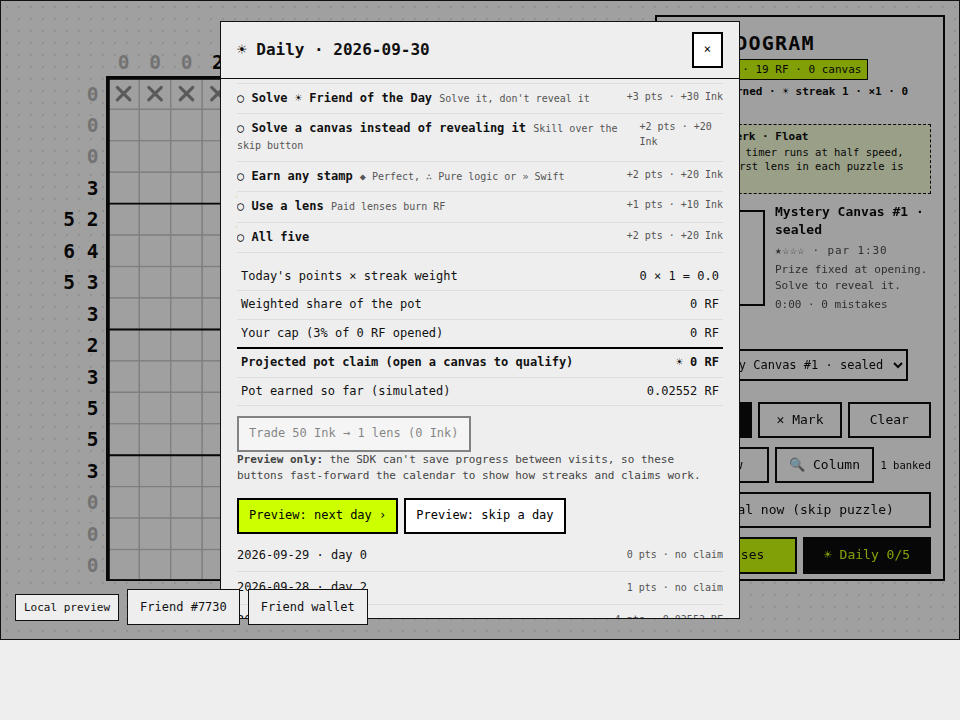
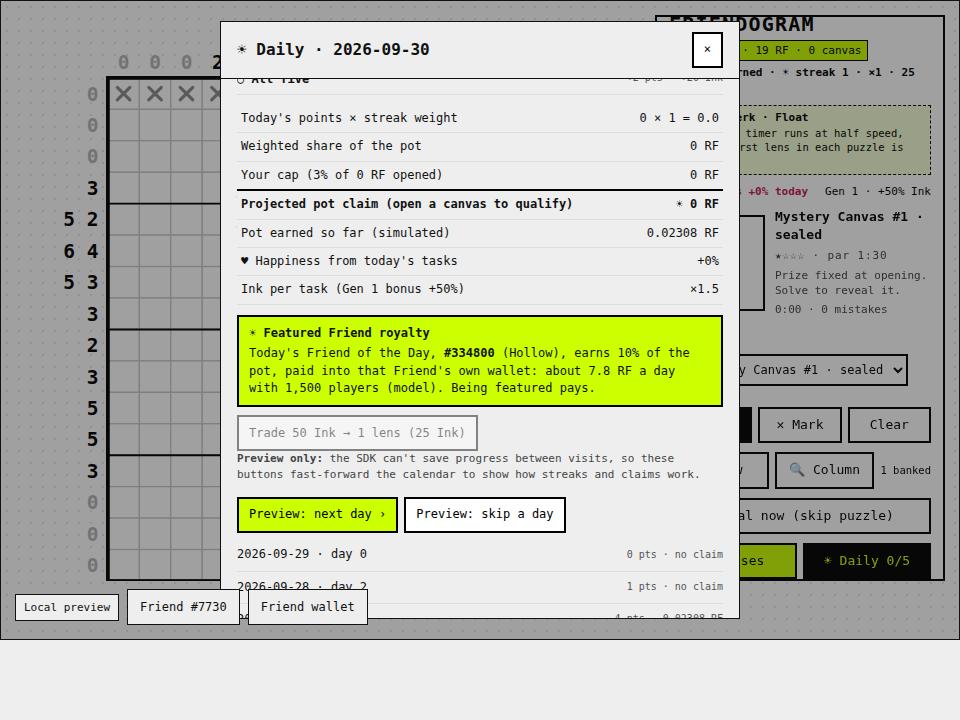
Royalty, generation bonus, Happiness

diff --git a/game/index.tsx b/game/index.tsx
@@ -5,13 +5,14 @@ import type { GameComponentProps } from "@rarefriends/friendsdk/runtime";
 import { GameMenu } from "@rarefriends/friendsdk/frame";
 import { formatGameAmount } from "@rarefriends/friendsdk/ui";
 import { expectedReward, maximumPrize, RF as RF_UNIT, type GameSnapshot } from "@rarefriends/friendsdk/game";
-import { createFriendReader, spriteFrame, type GenerationSprites, type SpriteFacing } from "@rarefriends/friendsdk/sprites";
+import { createFriendReader, spriteFrame, GENERATION_SPRITE_MANIFEST, type GenerationSprites, type SpriteFacing } from "@rarefriends/friendsdk/sprites";
+import { createPublicClient, http, parseAbi } from "viem";
 import { createFriendSoundKit, type FriendSoundKit, type FriendSoundCue } from "@rarefriends/friendsdk/sounds";
 import { SIZE, clues, difficulty, emptyGrid, isSolved, lineSatisfied, pictureRows, type Cell, type Picture } from "./nonogram";
 import { RELICS } from "./relics";
 import { perkFor, PERKS, type Perk } from "./perks";
 import { dailyFor } from "./daily";
-import { EDGE_SPLIT, INK_PER_LENS, INK_PER_POINT, ALL_TASKS_BONUS, STREAK_TIERS, TASKS, dayPoints, halveStreak, nextTier, potClaim, tierFor, type TaskId } from "./rewards";
+import { EDGE_SPLIT, FEATURED_ROYALTY_PCT, GENERATION_INK_BONUS, MODEL_ROYALTY_PER_DAY, happinessFor, inkFor, INK_PER_LENS, INK_PER_POINT, ALL_TASKS_BONUS, STREAK_TIERS, TASKS, dayPoints, halveStreak, nextTier, potClaim, tierFor, type TaskId } from "./rewards";
 import "@rarefriends/friendsdk/frame.css";
 import "./style.css";
 
@@ -37,6 +38,9 @@ const FAMILY_SHARE: Record<string, string> = {
   Hoverer: "2.5%", Colossus: "2.5%", Sparkling: "2.5%", Hollow: "2.5%",
 };
 const LENS_PRICE = RF_UNIT / 10n; // 0.1 RF per lens, 100% burned (simulated)
+/** Public read of the selected Friend's generation (display and Ink bonus only; ownership stays with the SDK runtime). */
+const generationClient = createPublicClient({ transport: http(GENERATION_SPRITE_MANIFEST.rpcUrl, { retryCount: 1, timeout: 12_000 }) });
+const GENERATION_ABI = parseAbi(["function generation(uint256 tokenId) view returns (uint8)"]);
 const dailyAt = (offset: number) => dailyFor(new Date(Date.now() + offset * 86_400_000));
 type DayLog = { key: string; streak: number; points: number; weighted: number; claim: bigint; capped: boolean; eligible: boolean };
 
@@ -111,6 +115,8 @@ export default function Friendogram({ friendId, client, paused }: GameComponentP
   const [streak, setStreak] = useState(0); // consecutive played days before today
   const [ink, setInk] = useState(0), [potEarned, setPotEarned] = useState(0n), [days, setDays] = useState<DayLog[]>([]);
   const todayRef = useRef(today); todayRef.current = today;
+  const [generation, setGeneration] = useState<number | null>(null);
+  const generationRef = useRef(generation); generationRef.current = generation;
   const perk = perkFor(sprites?.familyName ?? "");
   const perkRef = useRef(perk); perkRef.current = perk;
   const slowTick = useRef(false);
@@ -124,7 +130,9 @@ export default function Friendogram({ friendId, client, paused }: GameComponentP
     sound.current = createFriendSoundKit({ muted: true });
     setSprites(null); setSnapshot(null); setLoadError(""); setPuzzles([]); setProgress({}); setActiveId("");
     setMenu("help"); setBusy(false); setError(""); setMessage(""); setMuted(true); setBurned(0n); setBank(0); setLedger({ spent: 0n, redeemed: 0n, bought: 0n }); setCelebrate("");
-    setDayOffset(0); setToday({ done: new Set(), opened: 0 }); setStreak(0); setInk(0); setPotEarned(0n); setDays([]); locked.current = false;
+    setDayOffset(0); setToday({ done: new Set(), opened: 0 }); setStreak(0); setInk(0); setPotEarned(0n); setDays([]); setGeneration(null);
+    void generationClient.readContract({ address: GENERATION_SPRITE_MANIFEST.generations, abi: GENERATION_ABI, functionName: "generation", args: [friendId] })
+      .then(g => { if (version === epoch.current && g >= 1 && g <= 6) setGeneration(Number(g)); }).catch(() => undefined); locked.current = false;
     void Promise.all([createFriendReader().read(friendId), client.read()]).then(([art, value]) => {
       if (version !== epoch.current) return;
       if (value.friendId !== friendId) throw new Error("This game session does not match the selected Friend.");
@@ -183,8 +191,9 @@ export default function Friendogram({ friendId, client, paused }: GameComponentP
     if (!fresh) return;
     const task = TASKS.find(t => t.id === id)!;
     const bonus = done.size === TASKS.length ? ALL_TASKS_BONUS : 0;
-    setInk(n => n + (task.points + bonus) * INK_PER_POINT);
-    setMessage(`☀ Daily task: ${task.label} · +${(task.points + bonus) * INK_PER_POINT} Ink${bonus ? " · all tasks bonus!" : ""}`);
+    const gained = inkFor(task.points + bonus, generationRef.current);
+    setInk(n => n + gained);
+    setMessage(`☀ Daily task: ${task.label} · +${gained} Ink · ♥ +${happinessFor(done) - happinessFor(current.done)}% Happiness${bonus ? " · all tasks bonus!" : ""}`);
   }, []);
   const solve = useCallback((puzzle: Puzzle, revealed: boolean) => {
     if (!revealed && perkRef.current.bankOnSolve) setBank(b => b + perkRef.current.bankOnSolve);
@@ -414,6 +423,7 @@ export default function Friendogram({ friendId, client, paused }: GameComponentP
             }} />
           </div>
           <h2>{celebrated.kind === "daily" ? `It's #${celebrated.tokenId}, a ${celebrated.family}!` : "Solved!"}</h2>
+          {celebrated.kind === "daily" && <p className="fg-note">#{celebrated.tokenId?.toString()} earns a {FEATURED_ROYALTY_PCT}% royalty from today's pot.</p>}
           <p>{cstate.revealed ? "Revealed" : `${clock(cstate.seconds)} · ${cstate.mistakes} mistake${cstate.mistakes === 1 ? "" : "s"} · ${cstate.lenses} lens${cstate.lenses === 1 ? "" : "es"}`} · {starText(cstate.stars)}</p>
           <p className="fg-stamps">{stampLine(cstate.stamps)}</p>
           <div className="fg-row">
@@ -427,6 +437,7 @@ export default function Friendogram({ friendId, client, paused }: GameComponentP
         <header><h1>Friendogram</h1><p className="fg-balance">{modeLabel} · {rf(spendable)} · {snapshot.consumables.toString()} canvas</p>
           <p className="fg-burn" aria-label={`${rf(burned)} burned on lenses`}>🔥 {rf(burned)} burned · ☀ streak {liveStreak} · ×{weightNow} · {ink} Ink</p></header>
         <p className="fg-perk" title={perk.text}><strong>{perk.family} perk · {perk.name}</strong> {perk.text}</p>
+        <p className="fg-vitals"><span>♥ Happiness +{happinessFor(today.done)}% today</span><span>{generation ? `Gen ${generation} · +${GENERATION_INK_BONUS[generation]}% Ink` : "Gen –"}</span></p>
         <div className="fg-card">
           <canvas ref={preview} width={96} height={96} aria-label={state.solved ? `${active.title} solved` : "Your progress"} />
           <div>
@@ -473,7 +484,7 @@ export default function Friendogram({ friendId, client, paused }: GameComponentP
           <li><strong>Never guess.</strong> Every puzzle can be finished by logic alone. Dotted <span className="fg-dot">•</span> anchors are given where your Friend's shape would otherwise need a guess.</li>
         </ol>
         <p><strong>{perk.family} perk · {perk.name}:</strong> {perk.text}</p>
-        <p><strong>☀ Daily:</strong> five daily tasks earn Ink and a share of the Daily Pot (real RF in a live version, funded by the canvas edge). Keep a streak to raise your share, up to ×3.</p>
+        <p><strong>☀ Daily:</strong> five daily tasks earn Ink and a share of the Daily Pot (real RF in a live version, funded by the canvas edge). Keep a streak to raise your share, up to ×3. The Friend of the Day earns {FEATURED_ROYALTY_PCT}% of the pot into its own wallet, tasks raise ♥ Happiness, and earlier generations earn more Ink.</p>
         <p><strong>Also here:</strong> ☀ Friend of the Day #{DAILY.number} (same Friend for everyone today), lenses ({rf(lensCost)}, 100% burned), stamps for perfect, swift and pure-logic solves, and 1 RF Mystery Canvases. All RF is simulated.</p>
       </> : menu === "shop" ? <>
         <div className="fg-row">
@@ -546,7 +557,13 @@ export default function Friendogram({ friendId, client, paused }: GameComponentP
           <tr><td>Your cap ({capNow}% of {rf(canvasSpendToday)} opened)</td><td>{rf(claimToday.cap)}</td></tr>
           <tr className="fg-total"><td>Projected pot claim {claimToday.eligible ? "" : "(open a canvas to qualify)"}</td><td>☀ {rf(claimToday.claim)}</td></tr>
           <tr><td>Pot earned so far (simulated)</td><td>{rf(potEarned)}</td></tr>
+          <tr><td>♥ Happiness from today's tasks</td><td>+{happinessFor(today.done)}%</td></tr>
+          <tr><td>Ink per task ({generation ? `Gen ${generation} bonus +${GENERATION_INK_BONUS[generation]}%` : "generation unknown"})</td><td>×{generation ? (100 + GENERATION_INK_BONUS[generation]) / 100 : 1}</td></tr>
         </tbody></table>
+        <div className="fg-royalty">
+          <strong>☀ Featured Friend royalty</strong>
+          <span>Today's Friend of the Day, <strong>#{DAILY.tokenId.toString()}</strong> ({DAILY.family}), earns {FEATURED_ROYALTY_PCT}% of the pot, paid into that Friend's own wallet: about {rf(MODEL_ROYALTY_PER_DAY)} a day with 1,500 players (model).{DAILY.tokenId === friendId ? " That's your Friend!" : " Being featured pays."}</span>
+        </div>
         <div className="fg-row">
           <button type="button" disabled={ink < INK_PER_LENS} onClick={() => { setInk(n => n - INK_PER_LENS); setBank(b => b + 1); setMessage(`Traded ${INK_PER_LENS} Ink for a banked lens.`); }}>Trade {INK_PER_LENS} Ink → 1 lens ({ink} Ink)</button>
         </div>

diff --git a/game/rewards.ts b/game/rewards.ts
@@ -25,9 +25,24 @@ export const tierFor = (streak: number) => [...STREAK_TIERS].reverse().find(([d]
 export const nextTier = (streak: number) => STREAK_TIERS.find(([d]) => d > streak);
 
 /** Canvas edge routing proposed for a live contract (reference ChanceGame keeps 100% as developer stake). */
-export const EDGE_SPLIT = { pot: 60, burn: 20, developer: 20 } as const;
-/** Steady-state pot inflow per weighted point from the 1,500-player simulation (0.00638 RF). */
-export const POT_RF_PER_WEIGHTED_POINT = 6_380_000_000_000_000n; // 0.00638 RF in base units
+export const EDGE_SPLIT = { pot: 60, burn: 20, developer: 20 } as const; // the pot share then pays 10% to the featured Friend
+/** Steady-state pot per weighted point from the 1,500-player simulation, after the royalty (0.00577 RF). */
+export const POT_RF_PER_WEIGHTED_POINT = 5_770_000_000_000_000n; // 0.00577 RF in base units
+/** The day's ☀ Friend of the Day earns this share of the pot, paid to that Friend's own wallet. */
+export const FEATURED_ROYALTY_PCT = 10;
+/** Model figures for 1,500 players: pot inflow ≈ 78 RF/day, featured-Friend royalty ≈ 7.8 RF/day. */
+export const MODEL_POT_PER_DAY = 78_000_000_000_000_000_000n;
+export const MODEL_ROYALTY_PER_DAY = (MODEL_POT_PER_DAY * BigInt(FEATURED_ROYALTY_PCT)) / 100n;
+
+/** Generation bonus (Grow): earlier generations earn more Ink. Ink only, never pot weight or RF. */
+export const GENERATION_INK_BONUS: Readonly<Record<number, number>> = { 1: 50, 2: 40, 3: 30, 4: 20, 5: 10, 6: 0 };
+export const inkFor = (points: number, generation: number | null) =>
+  Math.round(points * INK_PER_POINT * (100 + (generation ? GENERATION_INK_BONUS[generation] ?? 0 : 0)) / 100);
+
+/** Happiness (simulated): each task adds 5%, all five adds another 5%. A live version would feed rarefriends.com Happiness. */
+export const HAPPINESS_PER_TASK = 5;
+export const HAPPINESS_ALL_BONUS = 5;
+export const happinessFor = (done: ReadonlySet<TaskId>) => done.size * HAPPINESS_PER_TASK + (done.size === TASKS.length ? HAPPINESS_ALL_BONUS : 0);
 export const POT_OVERFLOW_DAYS = 2; // unclaimed pot above 2 days of inflow is burned
 
 export function dayPoints(done: ReadonlySet<TaskId>) {

diff --git a/game/style.css b/game/style.css
@@ -112,3 +112,7 @@
 .fg-tasks li small{color:#555}.fg-tasks .fg-done-task{background:#f3ffcc}
 .fg-game button.fg-daily-btn{background:#000;color:#ccff00}
 .fg-game details summary{cursor:pointer;font-weight:bold}
+.fg-vitals{display:flex;justify-content:space-between;gap:6px;margin:0;font-size:11px}
+.fg-vitals span:first-child{color:#c2185b;font-weight:bold}
+.fg-royalty{display:flex;flex-direction:column;gap:3px;border:2px solid #000;background:#ccff00;padding:8px 10px;margin:8px 0;font-size:12px}
+@media (max-aspect-ratio:1/1){.fg-vitals{display:none}}

diff --git a/game/README.md b/game/README.md
@@ -89,6 +89,9 @@ choose an owned hardwired Generations Friend (generation ≥ 1) and play.
   below that edge so nothing returns ≥ 100%. Missing a day halves the streak. The preview has
   *Preview: next day* / *skip a day* buttons because the SDK can't save between visits. Full
   analysis and simulation: [economy/README.md](economy/README.md).
+- **Featured Friend royalty:** the day's ☀ Friend of the Day earns 10% of the pot into its own
+  wallet. **Generation bonus:** Gen 1 earns +50% Ink down to +0% for Gen 6 (read from the
+  Generations contract; Ink only). **Happiness:** tasks add simulated ♥ Happiness.
 
 ## Economy (simulated)
 
